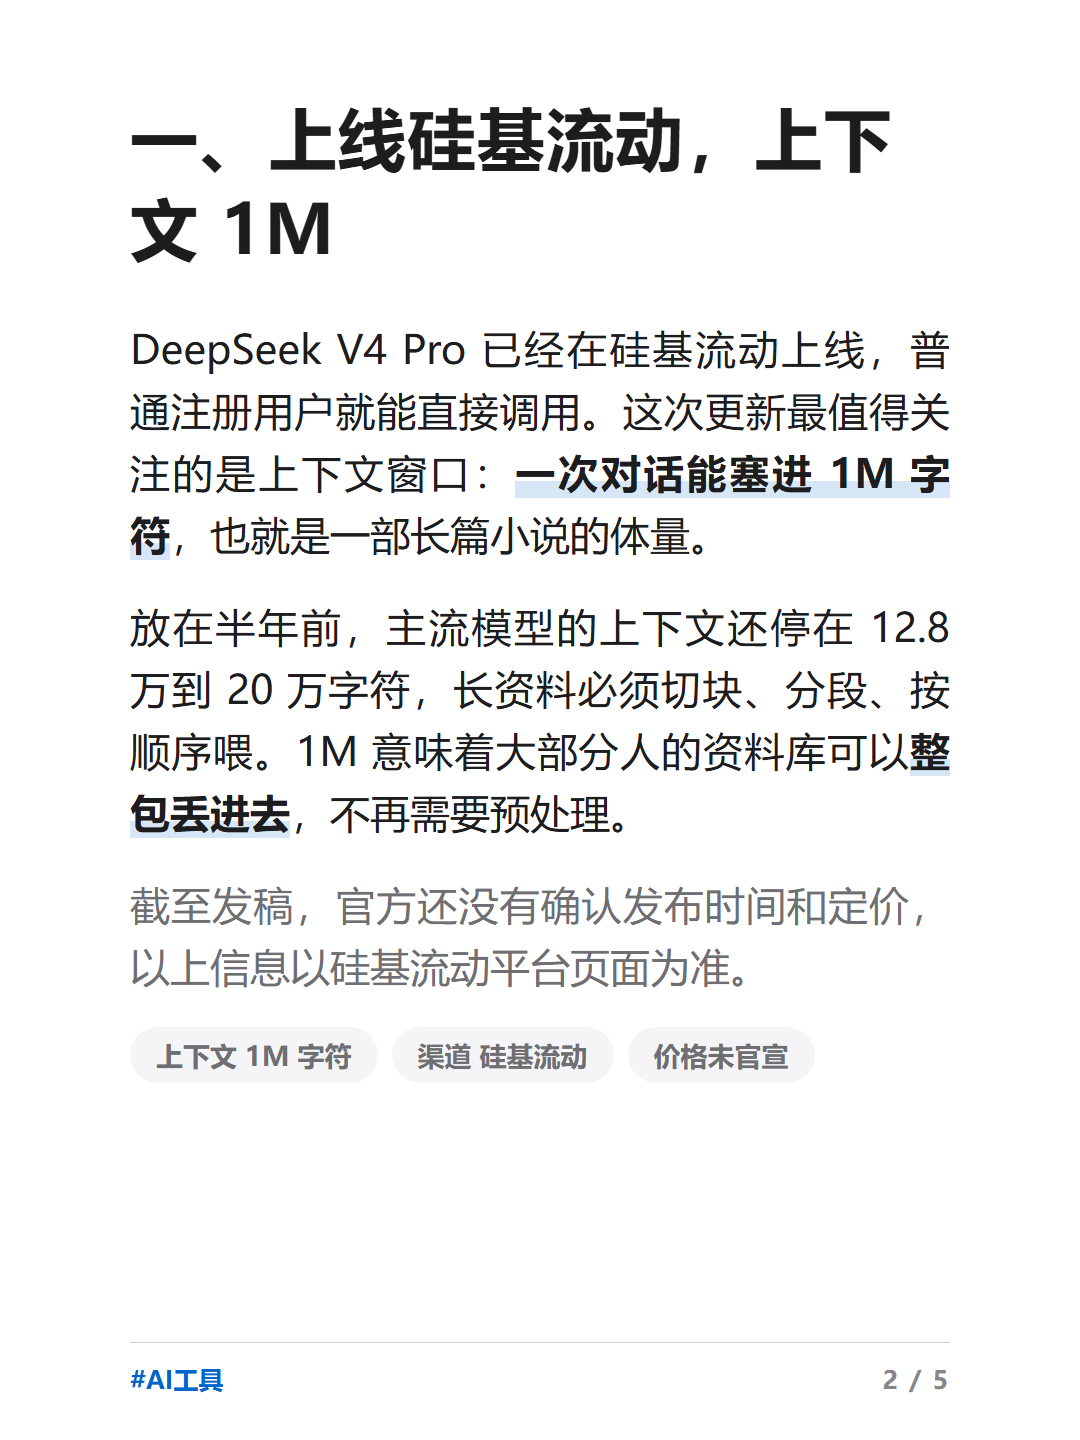
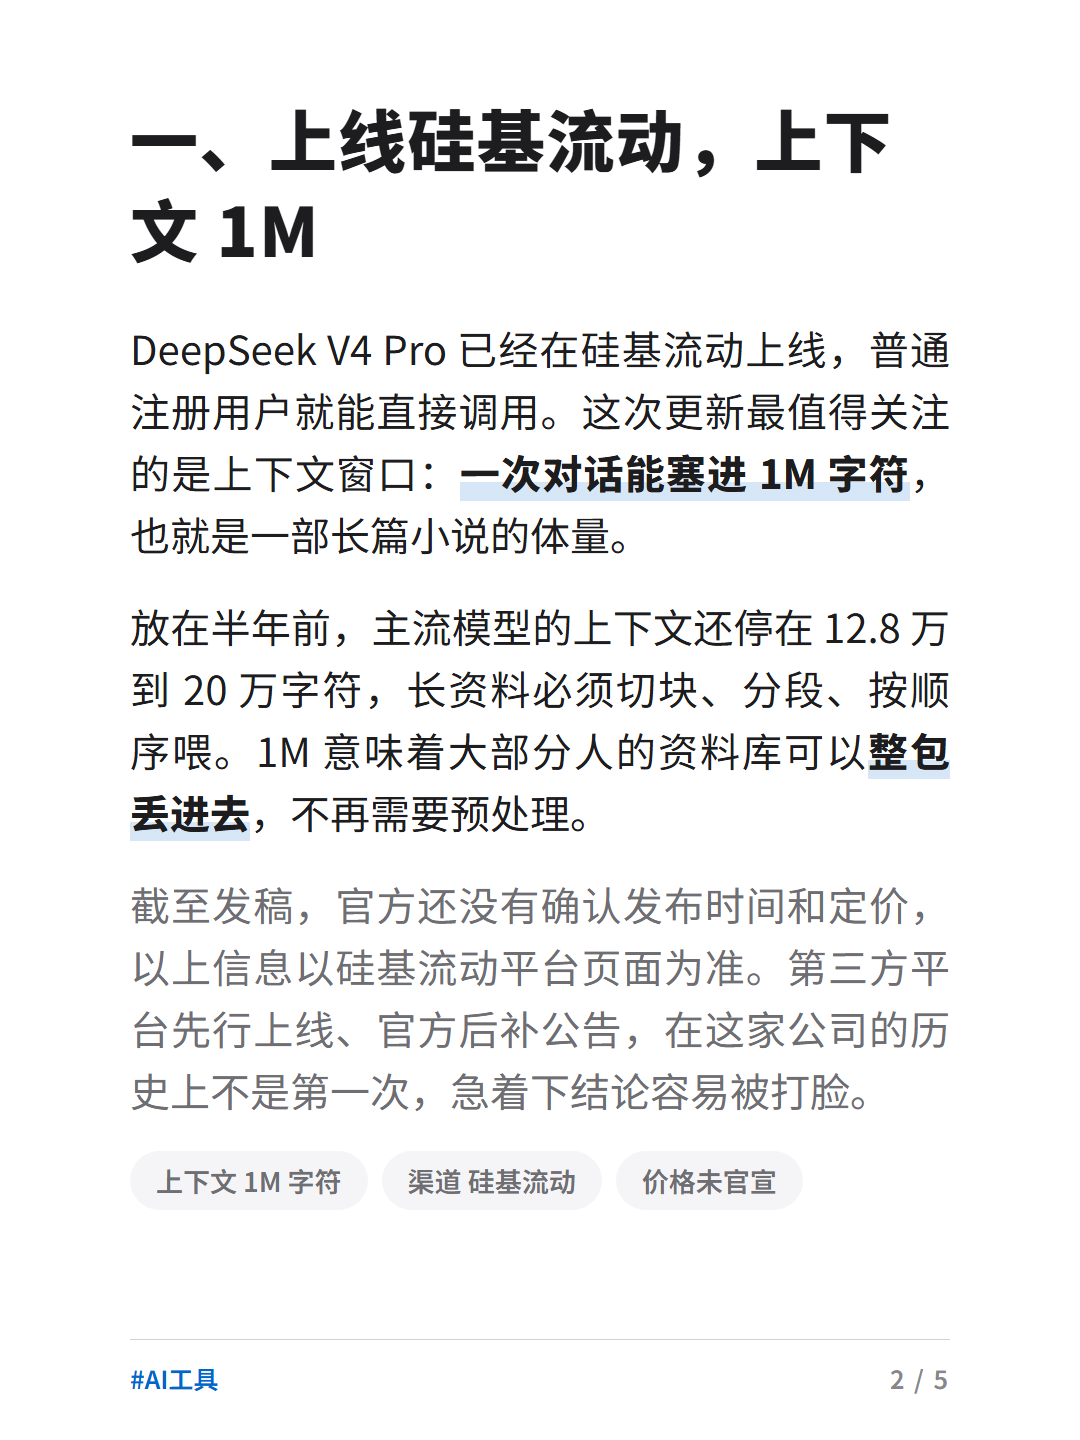
C3 补充文案至满排：每卡正文 280-320 字（约 14-16 行）+ 标题/胶囊/引用块

diff --git a/design/preview/c3/card_05.html b/design/preview/c3/card_05.html
@@ -69,8 +69,9 @@ footer .rule { height: 1.5px; background: var(--hairline); }
 <main>
   <h1 class="sec-title"><span class="no">四、</span>先小项目试水，别急迁移</h1>
   <div class="body">
-    <p class="para">给普通人的建议很简单：想尝鲜，去硅基流动把玩一下没问题；但<b>核心工作流别急着迁移</b>。新模型刚上线，稳定性、并发限制、实际价格都是未知数。</p>
-    <p class="para">稳妥的路径是：先拿一个<b>不重要的 小项目</b>完整跑一遍，对比旧模型的输出质量和成本，跑通了、满意了，再考虑把主力任务切过来。</p>
+    <p class="para">给普通人的建议很简单：想尝鲜，去硅基流动把玩一下没问题；但<b>核心工作流别急着迁移</b>。新模型刚上线，稳定性、并发限制、实际价格都是未知数，把吃饭的家伙押上去，赌注太大。</p>
+    <p class="para">稳妥的路径是：先拿一个<b>不重要的小项目</b>完整跑一遍，对比旧模型的输出质量和成本，跑通了、满意了，再考虑把主力任务切过来。迁移这件事，永远让证据说话。</p>
+    <p class="para">另外留意成本：长上下文通常按输入量计费，1M 全喂满，<b>账单可能比想象中好看不了多少</b>，尝鲜的时候记得先看一眼定价再放量跑。</p>
     <div class="quote">你会为了 1M 上下文换模型吗？评论区聊聊你的用法。</div></div>
 </main>
 <footer>

diff --git a/design/preview/c3/card_03.html b/design/preview/c3/card_03.html
@@ -70,7 +70,8 @@ footer .rule { height: 1.5px; background: var(--hairline); }
   <h1 class="sec-title"><span class="no">二、</span>1M 上下文是一本书的量</h1>
   <div class="body">
     <p class="para">上下文决定模型一次能「记住」多少内容。1M 字符大约等于一整本书，或者 20 份左右的年度报告。对写论文、看合同、啃技术文档的人来说，这是<b>实打实的刚需</b>，不是参数内卷。</p>
-    <p class="para">但也要泼一盆冷水：上下文变长，不等于长文中间的内容都能被准确利用。模型是否存在「中间遗忘」、长输入的响应速度如何，都要等实测数据。</p>
+    <p class="para">但也要泼一盆冷水：上下文变长，不等于长文中间的内容都能被准确利用。业内一直有「中间遗忘」的说法——开头和结尾记得牢，中段容易糊。V4 Pro 有没有这个问题、长输入的响应速度如何，都要等实测数据，参数表上看不出来。</p>
+    <p class="para">另一个容易被忽略的点：上下文越长，对话里积累的偏好、术语表、示例就越不用重复贴。对做重复性工作流的人来说，这是<b>隐性的提速</b>，比跑分实在。</p>
     <p class="para">我的判断是：<b>长文档场景立刻受益</b>，其他场景先别激动，等第一批评测出来再说。</p></div>
 </main>
 <footer>

diff --git a/design/preview/c3/card_02.html b/design/preview/c3/card_02.html
@@ -71,7 +71,7 @@ footer .rule { height: 1.5px; background: var(--hairline); }
   <div class="body">
     <p class="para">DeepSeek V4 Pro 已经在硅基流动上线，普通注册用户就能直接调用。这次更新最值得关注的是上下文窗口：<b>一次对话能塞进 1M 字符</b>，也就是一部长篇小说的体量。</p>
     <p class="para">放在半年前，主流模型的上下文还停在 12.8 万到 20 万字符，长资料必须切块、分段、按顺序喂。1M 意味着大部分人的资料库可以<b>整包丢进去</b>，不再需要预处理。</p>
-    <p class="para dim">截至发稿，官方还没有确认发布时间和定价，以上信息以硅基流动平台页面为准。</p>
+    <p class="para dim">截至发稿，官方还没有确认发布时间和定价，以上信息以硅基流动平台页面为准。第三方平台先行上线、官方后补公告，在这家公司的历史上不是第一次，急着下结论容易被打脸。</p>
     <div class="meta-row"><span class="meta-pill">上下文 1M 字符</span><span class="meta-pill">渠道 硅基流动</span><span class="meta-pill">价格未官宣</span></div></div>
 </main>
 <footer>

diff --git a/design/preview/c3/card_04.html b/design/preview/c3/card_04.html
@@ -70,7 +70,7 @@ footer .rule { height: 1.5px; background: var(--hairline); }
   <h1 class="sec-title"><span class="no">三、</span>500 页 PDF 不用再分段</h1>
   <div class="body">
     <p class="para">说个我自己的场景：之前处理一份 500 页的行业 PDF，模型每轮只能吃几十页，我只能手动切成十几段，一段段喂，还得自己维护一份「前面说过什么」的摘要，<b>流程又慢又容易漏</b>。</p>
-    <p class="para">如果 V4 Pro 的 1M 上下文真的稳定，这类活儿就是<b>整份文件直接扔进去</b>，让它自己读完整本再回答。省掉的不只是时间，还有分段导致的信息丢失。</p>
+    <p class="para">如果 V4 Pro 的 1M 上下文真的稳定，这类活儿就是<b>整份文件直接扔进去</b>，让它自己读完整本再回答。省掉的不只是时间，还有分段导致的信息丢失——很多时候结论就藏在第 12 页和第 300 页的对照里，切块喂的时候根本对不上。</p>
     <p class="para dim">说明：我还没有对 V4 Pro 做过实测，以上是基于参数的推断，周末跑完测试会在这里更新结论。</p></div>
 </main>
 <footer>

diff --git a/design/render_preview_c3.py b/design/render_preview_c3.py
@@ -146,28 +146,30 @@ def s1() -> str:
     return section("一", "上线硅基流动，上下文 1M", """
     <p class="para">DeepSeek V4 Pro 已经在硅基流动上线，普通注册用户就能直接调用。这次更新最值得关注的是上下文窗口：<b>一次对话能塞进 1M 字符</b>，也就是一部长篇小说的体量。</p>
     <p class="para">放在半年前，主流模型的上下文还停在 12.8 万到 20 万字符，长资料必须切块、分段、按顺序喂。1M 意味着大部分人的资料库可以<b>整包丢进去</b>，不再需要预处理。</p>
-    <p class="para dim">截至发稿，官方还没有确认发布时间和定价，以上信息以硅基流动平台页面为准。</p>
+    <p class="para dim">截至发稿，官方还没有确认发布时间和定价，以上信息以硅基流动平台页面为准。第三方平台先行上线、官方后补公告，在这家公司的历史上不是第一次，急着下结论容易被打脸。</p>
     <div class="meta-row"><span class="meta-pill">上下文 1M 字符</span><span class="meta-pill">渠道 硅基流动</span><span class="meta-pill">价格未官宣</span></div>""", 2)
 
 
 def s2() -> str:
     return section("二", "1M 上下文是一本书的量", """
     <p class="para">上下文决定模型一次能「记住」多少内容。1M 字符大约等于一整本书，或者 20 份左右的年度报告。对写论文、看合同、啃技术文档的人来说，这是<b>实打实的刚需</b>，不是参数内卷。</p>
-    <p class="para">但也要泼一盆冷水：上下文变长，不等于长文中间的内容都能被准确利用。模型是否存在「中间遗忘」、长输入的响应速度如何，都要等实测数据。</p>
+    <p class="para">但也要泼一盆冷水：上下文变长，不等于长文中间的内容都能被准确利用。业内一直有「中间遗忘」的说法——开头和结尾记得牢，中段容易糊。V4 Pro 有没有这个问题、长输入的响应速度如何，都要等实测数据，参数表上看不出来。</p>
+    <p class="para">另一个容易被忽略的点：上下文越长，对话里积累的偏好、术语表、示例就越不用重复贴。对做重复性工作流的人来说，这是<b>隐性的提速</b>，比跑分实在。</p>
     <p class="para">我的判断是：<b>长文档场景立刻受益</b>，其他场景先别激动，等第一批评测出来再说。</p>""", 3)
 
 
 def s3() -> str:
     return section("三", "500 页 PDF 不用再分段", """
     <p class="para">说个我自己的场景：之前处理一份 500 页的行业 PDF，模型每轮只能吃几十页，我只能手动切成十几段，一段段喂，还得自己维护一份「前面说过什么」的摘要，<b>流程又慢又容易漏</b>。</p>
-    <p class="para">如果 V4 Pro 的 1M 上下文真的稳定，这类活儿就是<b>整份文件直接扔进去</b>，让它自己读完整本再回答。省掉的不只是时间，还有分段导致的信息丢失。</p>
+    <p class="para">如果 V4 Pro 的 1M 上下文真的稳定，这类活儿就是<b>整份文件直接扔进去</b>，让它自己读完整本再回答。省掉的不只是时间，还有分段导致的信息丢失——很多时候结论就藏在第 12 页和第 300 页的对照里，切块喂的时候根本对不上。</p>
     <p class="para dim">说明：我还没有对 V4 Pro 做过实测，以上是基于参数的推断，周末跑完测试会在这里更新结论。</p>""", 4)
 
 
 def s4() -> str:
     return section("四", "先小项目试水，别急迁移", """
-    <p class="para">给普通人的建议很简单：想尝鲜，去硅基流动把玩一下没问题；但<b>核心工作流别急着迁移</b>。新模型刚上线，稳定性、并发限制、实际价格都是未知数。</p>
-    <p class="para">稳妥的路径是：先拿一个<b>不重要的 小项目</b>完整跑一遍，对比旧模型的输出质量和成本，跑通了、满意了，再考虑把主力任务切过来。</p>
+    <p class="para">给普通人的建议很简单：想尝鲜，去硅基流动把玩一下没问题；但<b>核心工作流别急着迁移</b>。新模型刚上线，稳定性、并发限制、实际价格都是未知数，把吃饭的家伙押上去，赌注太大。</p>
+    <p class="para">稳妥的路径是：先拿一个<b>不重要的小项目</b>完整跑一遍，对比旧模型的输出质量和成本，跑通了、满意了，再考虑把主力任务切过来。迁移这件事，永远让证据说话。</p>
+    <p class="para">另外留意成本：长上下文通常按输入量计费，1M 全喂满，<b>账单可能比想象中好看不了多少</b>，尝鲜的时候记得先看一眼定价再放量跑。</p>
     <div class="quote">你会为了 1M 上下文换模型吗？评论区聊聊你的用法。</div>""", 5)
 
 
